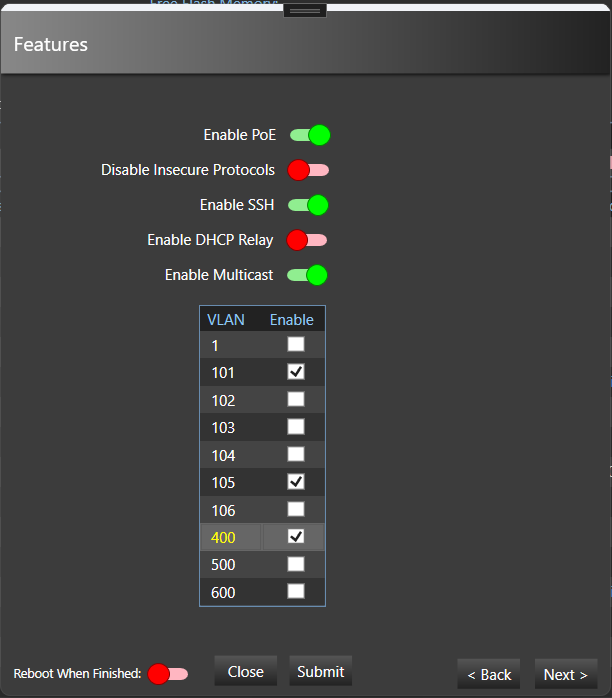
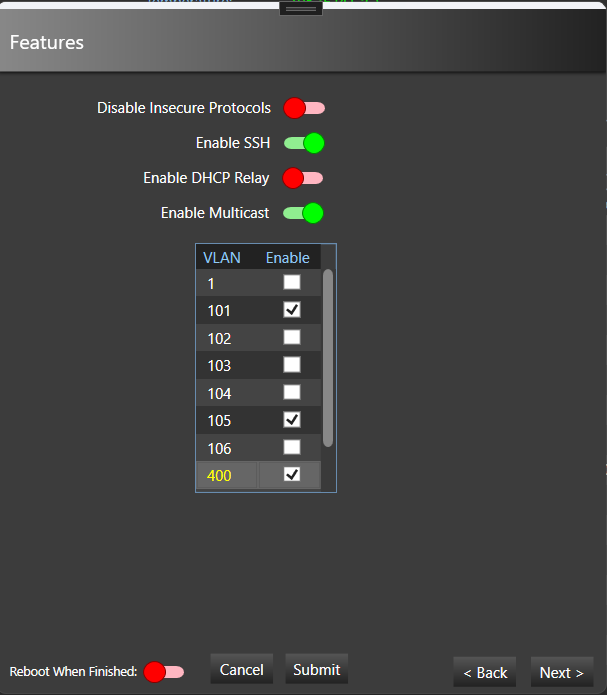
help updates

diff --git a/Resources/Help/help-dark.html b/Resources/Help/help-dark.html
@@ -79,6 +79,14 @@
     <p>
         The middle pane of the tool displays power supply information and status. It will also show the budget being allocated to PoE devices 
         as well if the switch supports the new 802.3bt PoE standard and options for Fast PoE and Perpetual PoE. 
+        You can also perform some actions such as turn PoE on and off on a slot and enable / disable fast PoE or perpetual PoE.
+    </p>
+    <p class="no-space">
+        Since this operation is disrupting, you will be prompted too enter a password to be able to carry it out. There is a hard-coded password
+        that you can use initially, and you have the option to change this password for you instance of application. Once you change the
+        password, the hard-coded one will no longer be accepted.
+    </p>
+    <p class="no-space">
         Please note that neither fast nor perpetual PoE are available when 802.3bt is enabled and they are not supported on OS6465, OS6560, or OS6570M.
     </p>
     <p>
@@ -117,7 +125,7 @@
     <img src="poe-device.png" />
     <p>
         The installer sees that there is no link light on the switch and the Wizard shows port 48 Status as Searching when it should be Up and showing 
-        the power being consumed. Select port 48 and click Run Wizard. This is not a camera, AP, or telephone so we select Other and click OK.
+        the power being consumed. Select port 48 and click Run PoE Wizard. This is not a camera, AP, or telephone so we select Other and click OK.
     </p>
     <img src="run-wiz.png" />
     <p>
@@ -147,7 +155,12 @@
     <p>
         Use this options to reset your switch configuration to factory default. The wizard will completely erase the switch configuration 
         and will set vlan 1 IP inteface with the same IP address you used to connect to the switch originally, so you can reconnect to 
-        it with the application after the switch reboots. You can then proceed to run the congif wizard to add some addition configuration.
+        it with the application after the switch reboots. You can then proceed to run the congif wizard to add some additional configuration.
+    </p>
+    <p class="no-space">
+        Since this operation is disrupting, you will be prompted to enter a password to be able to carry it out. There is a hard-coded password
+        that you can use initially, and you have the option to change this password for you instance of application. Once you change the 
+        password, the hard-coded one will no longer be accepted.
     </p>
     <p class="topic">Basic Config Wizard</p>
     <p>The wizard presents a few configuration windows, you can navigate back and forth using the "Next >" and "< Back" buttons.</p>
@@ -160,9 +173,7 @@
     <img src="cfg-wiz-srv.png" />
     <p>
         Click "Next >" to navigate to the next window, which allows you to configure some features, like Disabling insecure protocols 
-        (telnet, ftp) enable SSH, etc. Note that if you toggle the Enable PoE switch off, you will be prompted to confirm your action, 
-        because it will turn off power on all PoE ports on the switch. If you confirm, the operation will take effect after you press 
-        the Submit button.
+        (telnet, ftp) enable SSH, etc.
     </p>
     <p class="no-space">When setting up multicast, you can select which VLANs will have it enabled on the table below the multicast toggle switch.</p>
     <img src="cfg-wiz-feature.png" />

diff --git a/Resources/Help/help-light.html b/Resources/Help/help-light.html
@@ -78,6 +78,14 @@
     <p>
         The middle pane of the tool displays power supply information and status. It will also show the budget being allocated to PoE devices
         as well if the switch supports the new 802.3bt PoE standard and options for Fast PoE and Perpetual PoE.
+        You can also perform some actions such as turn PoE on and off on a slot and enable / disable fast PoE or perpetual PoE.
+    </p>
+    <p class="no-space">
+        Since this operation is disrupting, you will be prompted too enter a password to be able to carry it out. There is a hard-coded password
+        that you can use initially, and you have the option to change this password for you instance of application. Once you change the
+        password, the hard-coded one will no longer be accepted.
+    </p>
+    <p class="no-space">
         Please note that neither fast nor perpetual PoE are available when 802.3bt is enabled and they are not supported on OS6465, OS6560, or OS6570M.
     </p>
     <p>
@@ -116,7 +124,7 @@
     <img src="poe-device.png" />
     <p>
         The installer sees that there is no link light on the switch and the Wizard shows port 48 Status as Searching when it should be Up and showing
-        the power being consumed. Select port 48 and click Run Wizard. This is not a camera, AP, or telephone so we select Other and click OK.
+        the power being consumed. Select port 48 and click Run PoE Wizard. This is not a camera, AP, or telephone so we select Other and click OK.
     </p>
     <img src="run-wiz.png" />
     <p>
@@ -148,6 +156,11 @@
         and will set vlan 1 IP inteface with the same IP address you used to connect to the switch originally, so you can reconnect to
         it with the application after the switch reboots. You can then proceed to run the congif wizard to add some additional configuration.
     </p>
+    <p class="no-space">
+        Since this operation is disrupting, you will be prompted to enter a password to be able to carry it out. There is a hard-coded password
+        that you can use initially, and you have the option to change this password for you instance of application. Once you change the
+        password, the hard-coded one will no longer be accepted.
+    </p>
     <p class="topic">Basic Config Wizard</p>
     <p>The wizard presents a few configuration windows, you can navigate back and forth using the "Next >" and "< Back" buttons.</p>
     <p>The first window lets you configure the management IP address and netmask, as well as some switch system parameters</p>
@@ -159,9 +172,7 @@
     <img src="cfg-wiz-srv.png" />
     <p>
         Click "Next >" to navigate to the next window, which allows you to configure some features, like Disabling insecure protocols
-        (telnet, ftp) enable SSH, etc. Note that if you toggle the Enable PoE switch off, you will be prompted to confirm your action,
-        because it will turn off power on all PoE ports on the switch. If you confirm, the operation will take effect after you press
-        the Submit button.
+        (telnet, ftp) enable SSH, etc.
     </p>
     <p class="no-space">When setting up multicast, you can select which VLANs will have it enabled on the table below the multicast toggle switch.</p>
     <img src="cfg-wiz-feature.png" />

diff --git a/MainWindow.xaml b/MainWindow.xaml
@@ -425,7 +425,7 @@
                         IsEnabled="False"
                         Click="RunWiz_Click">
                     <StackPanel Orientation="Horizontal">
-                        <Label Style="{DynamicResource valLabel}">Run Wizard</Label>
+                        <Label Style="{DynamicResource valLabel}">Run PoE Wizard</Label>
                         <Image Source="Resources/Img/wand.png" Height="16" Width="16"/>
                     </StackPanel>
                 </Button>
